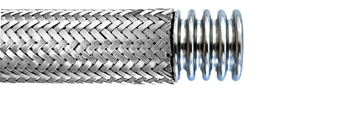
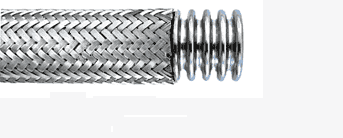
png images

diff --git a/src/content/explosion-proof-products.ts b/src/content/explosion-proof-products.ts
@@ -24,23 +24,23 @@ export const explosionProofBrochurePdf = {
 } as const;
 
 export const explosionProofUlListingMark = {
-  imageSrc: "/images/products/explosion-proof/ul-listed.webp",
+  imageSrc: "/images/products/explosion-proof/ul-listed.png",
   imageAlt: "UL Listed mark for Copleflex explosion proof flexible coupling",
 } as const;
 
 /** Main product photos for line cards on the explosion-proof overview page. */
 const explosionProofCardImages = {
   etgjh: {
-    imageSrc: "/images/products/explosion-proof/etgjh.jpg",
+    imageSrc: "/images/products/explosion-proof/etgjh.png",
     imageAlt:
       "Copleflex ETGJH explosion proof flexible conduit with male NPT brass fittings",
   },
   etlk: {
-    imageSrc: "/images/products/explosion-proof/etlk.jpg",
+    imageSrc: "/images/products/explosion-proof/etlk.png",
     imageAlt: "Copleflex ETLK explosion proof flexible coupling with union nut",
   },
   etgjhSs: {
-    imageSrc: "/images/products/explosion-proof/etgjh-ss.jpg",
+    imageSrc: "/images/products/explosion-proof/etgjh-ss.png",
     imageAlt:
       "Copleflex ETGJH-SS all-stainless explosion proof flexible conduit",
   },
@@ -87,7 +87,7 @@ export const explosionProofEtgjhContent = {
     { label: "ETGJH", href: "/products/explosion-proof-fc/etgjh" },
   ],
   hero: {
-    imageSrc: "/images/products/explosion-proof/etgjh.jpg",
+    imageSrc: "/images/products/explosion-proof/etgjh.png",
     imageAlt:
       "Copleflex ETGJH explosion proof flexible conduit with male NPT brass fittings",
     title: "Copleflex® model ETGJH",
@@ -95,6 +95,17 @@ export const explosionProofEtgjhContent = {
     primaryCta: contactCta,
     secondaryCta: explosionProofHubCta,
   },
+  heroSlides: [
+    {
+      imageSrc: "/images/products/explosion-proof/etgjh.png",
+      imageAlt:
+        "Copleflex ETGJH explosion proof flexible conduit with male NPT brass fittings",
+    },
+    {
+      imageSrc: "/images/products/explosion-proof/etgjh-hero.png",
+      imageAlt: "ETGJH explosion proof flexible conduit detail view",
+    },
+  ],
   heroImageCaption: "Male NPT threaded connection on both outer ends.",
   lead: etgjhLead,
   featuresHeading: "Features",
@@ -161,7 +172,7 @@ export const explosionProofEtlkContent = {
     { label: "ETLK", href: "/products/explosion-proof-fc/etlk" },
   ],
   hero: {
-    imageSrc: "/images/products/explosion-proof/etlk.jpg",
+    imageSrc: "/images/products/explosion-proof/etlk.png",
     imageAlt: "Copleflex ETLK explosion proof flexible coupling with union nut",
     title: "Copleflex® model ETLK",
     body: explosionProofProductIntro,
@@ -170,11 +181,11 @@ export const explosionProofEtlkContent = {
   },
   heroSlides: [
     {
-      imageSrc: "/images/products/explosion-proof/etlk.jpg",
+      imageSrc: "/images/products/explosion-proof/etlk.png",
       imageAlt: "Copleflex ETLK explosion proof flexible coupling with union nut",
     },
     {
-      imageSrc: "/images/products/explosion-proof/etlk-hero.webp",
+      imageSrc: "/images/products/explosion-proof/etlk-hero.png",
       imageAlt: "Alternate view of Copleflex ETLK flexible coupling",
     },
   ],
@@ -247,7 +258,7 @@ export const explosionProofEtgjhSsContent = {
     { label: "ETGJH-SS", href: "/products/explosion-proof-fc/etgjh-ss" },
   ],
   hero: {
-    imageSrc: "/images/products/explosion-proof/etgjh-ss.jpg",
+    imageSrc: "/images/products/explosion-proof/etgjh-ss.png",
     imageAlt:
       "Copleflex ETGJH-SS all-stainless explosion proof flexible conduit",
     title: "Copleflex® model ETGJH-SS",
@@ -257,12 +268,12 @@ export const explosionProofEtgjhSsContent = {
   },
   heroSlides: [
     {
-      imageSrc: "/images/products/explosion-proof/etgjh-ss.jpg",
+      imageSrc: "/images/products/explosion-proof/etgjh-ss.png",
       imageAlt:
         "Copleflex ETGJH-SS all-stainless explosion proof flexible conduit",
     },
     {
-      imageSrc: "/images/products/explosion-proof/etgjh-ss-hero.webp",
+      imageSrc: "/images/products/explosion-proof/etgjh-ss-hero.png",
       imageAlt:
         "Alternate view of Copleflex ETGJH-SS stainless flexible conduit",
     },

diff --git a/src/content/site.ts b/src/content/site.ts
@@ -102,7 +102,7 @@ export const productsContent = {
     {
       title: "Corrugated Hose",
       href: "/products/corrugated-hose",
-      imageSrc: "/images/homepage-3.jpg",
+      imageSrc: "/images/N-TypeCorrugatedMetalHose.png",
       imageAlt: "Corrugated hose",
     },
     {
@@ -114,7 +114,7 @@ export const productsContent = {
     {
       title: "Explosion Proof Flexible Conduit",
       href: "/products/explosion-proof-fc",
-      imageSrc: "/images/products/explosion-proof/etgjh.jpg",
+      imageSrc: "/images/products/explosion-proof/etgjh.png",
       imageAlt: "Copleflex ETGJH explosion proof flexible conduit",
     },
   ],
@@ -348,7 +348,7 @@ export const productsLandingContent = {
 export const productCategoryContent = {
   corrugated: {
     hero: {
-      imageSrc: "/images/homepage-3.jpg",
+      imageSrc: "/images/N-TypeCorrugatedMetalHose.png",
       imageAlt: "Corrugated hose",
       title: "Corrugated Hose",
       body: "Annular and omega stainless-steel corrugated hose families for fluid transfer, vibration absorption, and demanding industrial service.",
@@ -384,7 +384,7 @@ export const productCategoryContent = {
   },
   explosionProofFc: {
     hero: {
-      imageSrc: "/images/products/explosion-proof/etgjh.jpg",
+      imageSrc: "/images/products/explosion-proof/etgjh.png",
       imageAlt: "Copleflex ETGJH explosion proof flexible conduit",
       title: "Explosion Proof Flexible Conduit",
       body: "Copleflex® flexible conduit couplings for Class I, II, and III hazardous locations—brass and all-stainless models plus the ETLK union configuration.",

diff --git a/src/content/corrugated-products.ts b/src/content/corrugated-products.ts
@@ -66,7 +66,7 @@ export const corrugatedNTypeContent = {
     { label: "N-Type", href: "/products/corrugated-hose/n-type" },
   ],
   hero: {
-    imageSrc: "/images/N-TypeCorrugatedMetalHose.webp",
+    imageSrc: "/images/N-TypeCorrugatedMetalHose.png",
     imageAlt:
       "N-type stainless steel corrugated metal hose with stainless braid",
     title: "N-Type Stainless Steel Corrugated Metal Hose",
@@ -109,7 +109,7 @@ export const corrugatedPTypeContent = {
     { label: "P-Type", href: "/products/corrugated-hose/p-type" },
   ],
   hero: {
-    imageSrc: "/images/P-TypeCorrugatedMetalHose.webp",
+    imageSrc: "/images/P-TypeCorrugatedMetalHose.png",
     imageAlt:
       "P-type stainless steel corrugated metal hose with stainless braid",
     title: "P-Type Stainless Steel Corrugated Metal Hose",